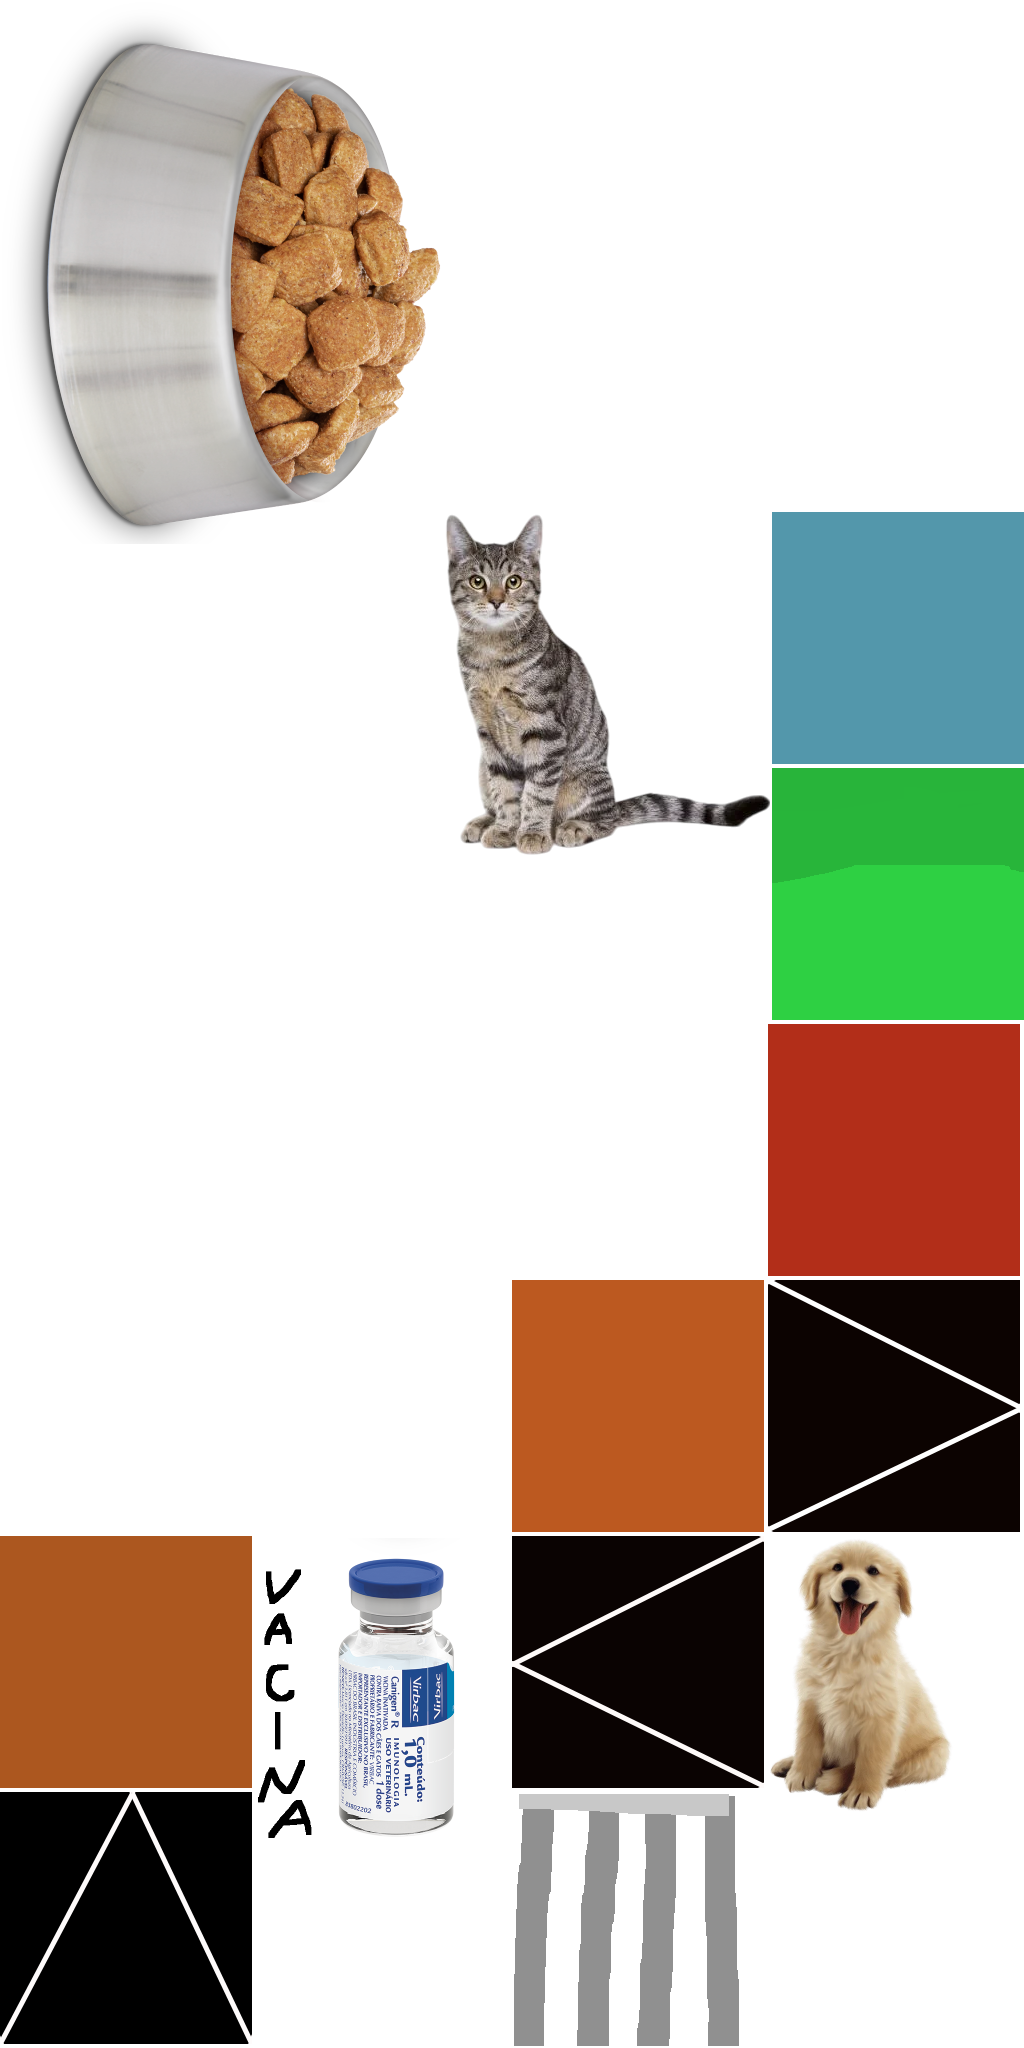
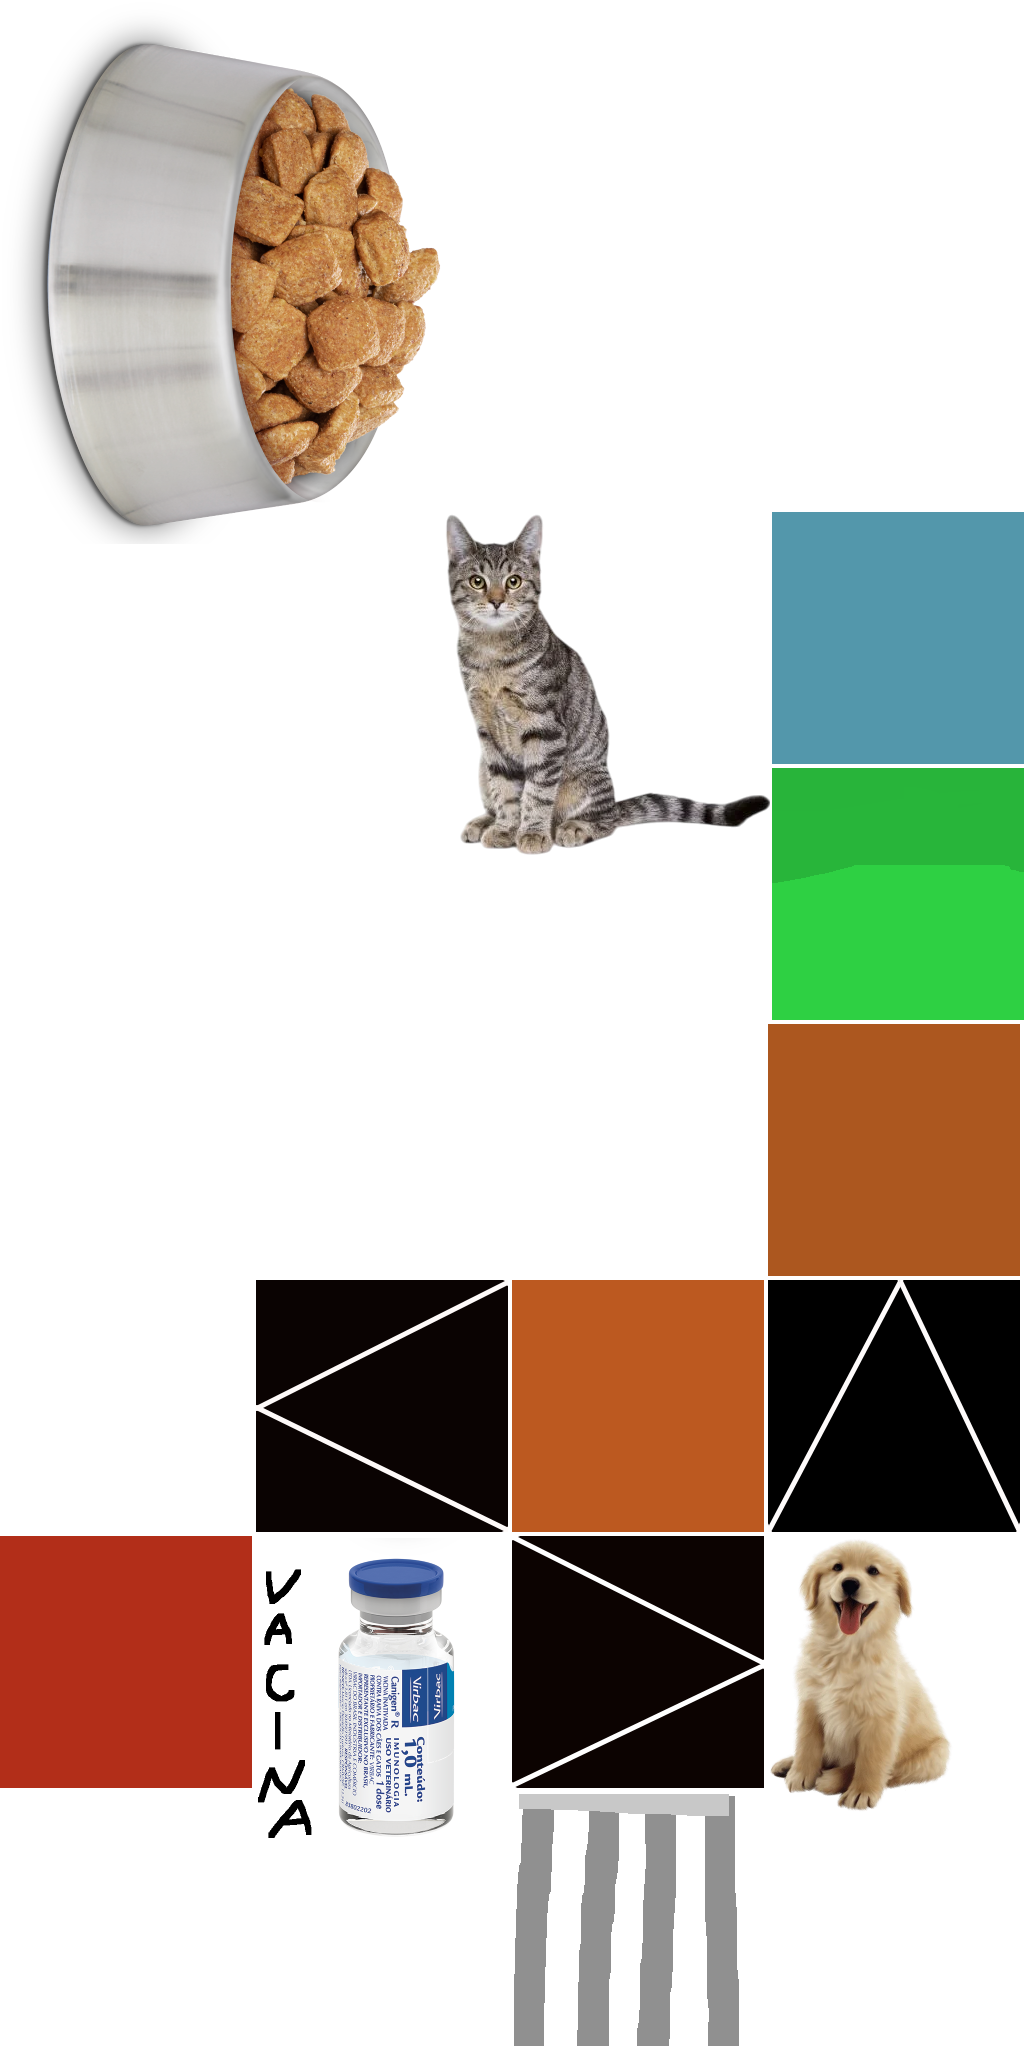
Resolvendo erro de ultima hora
Demorei pra chegar em casa, espero que conte o horario.

diff --git a/scripts/objRefTable.js b/scripts/objRefTable.js
@@ -13,6 +13,7 @@ self.C3_GetObjectRefTable = function () {
 		C3.Plugins.Sprite.Acts.Destroy,
 		C3.Plugins.System.Acts.AddVar,
 		C3.Plugins.System.Acts.RestartLayout,
+		C3.Plugins.System.Acts.ResetEventVar,
 		C3.Plugins.System.Cnds.EveryTick,
 		C3.Behaviors.Follow.Acts.FollowObject,
 		C3.Plugins.System.Cnds.Compare,
